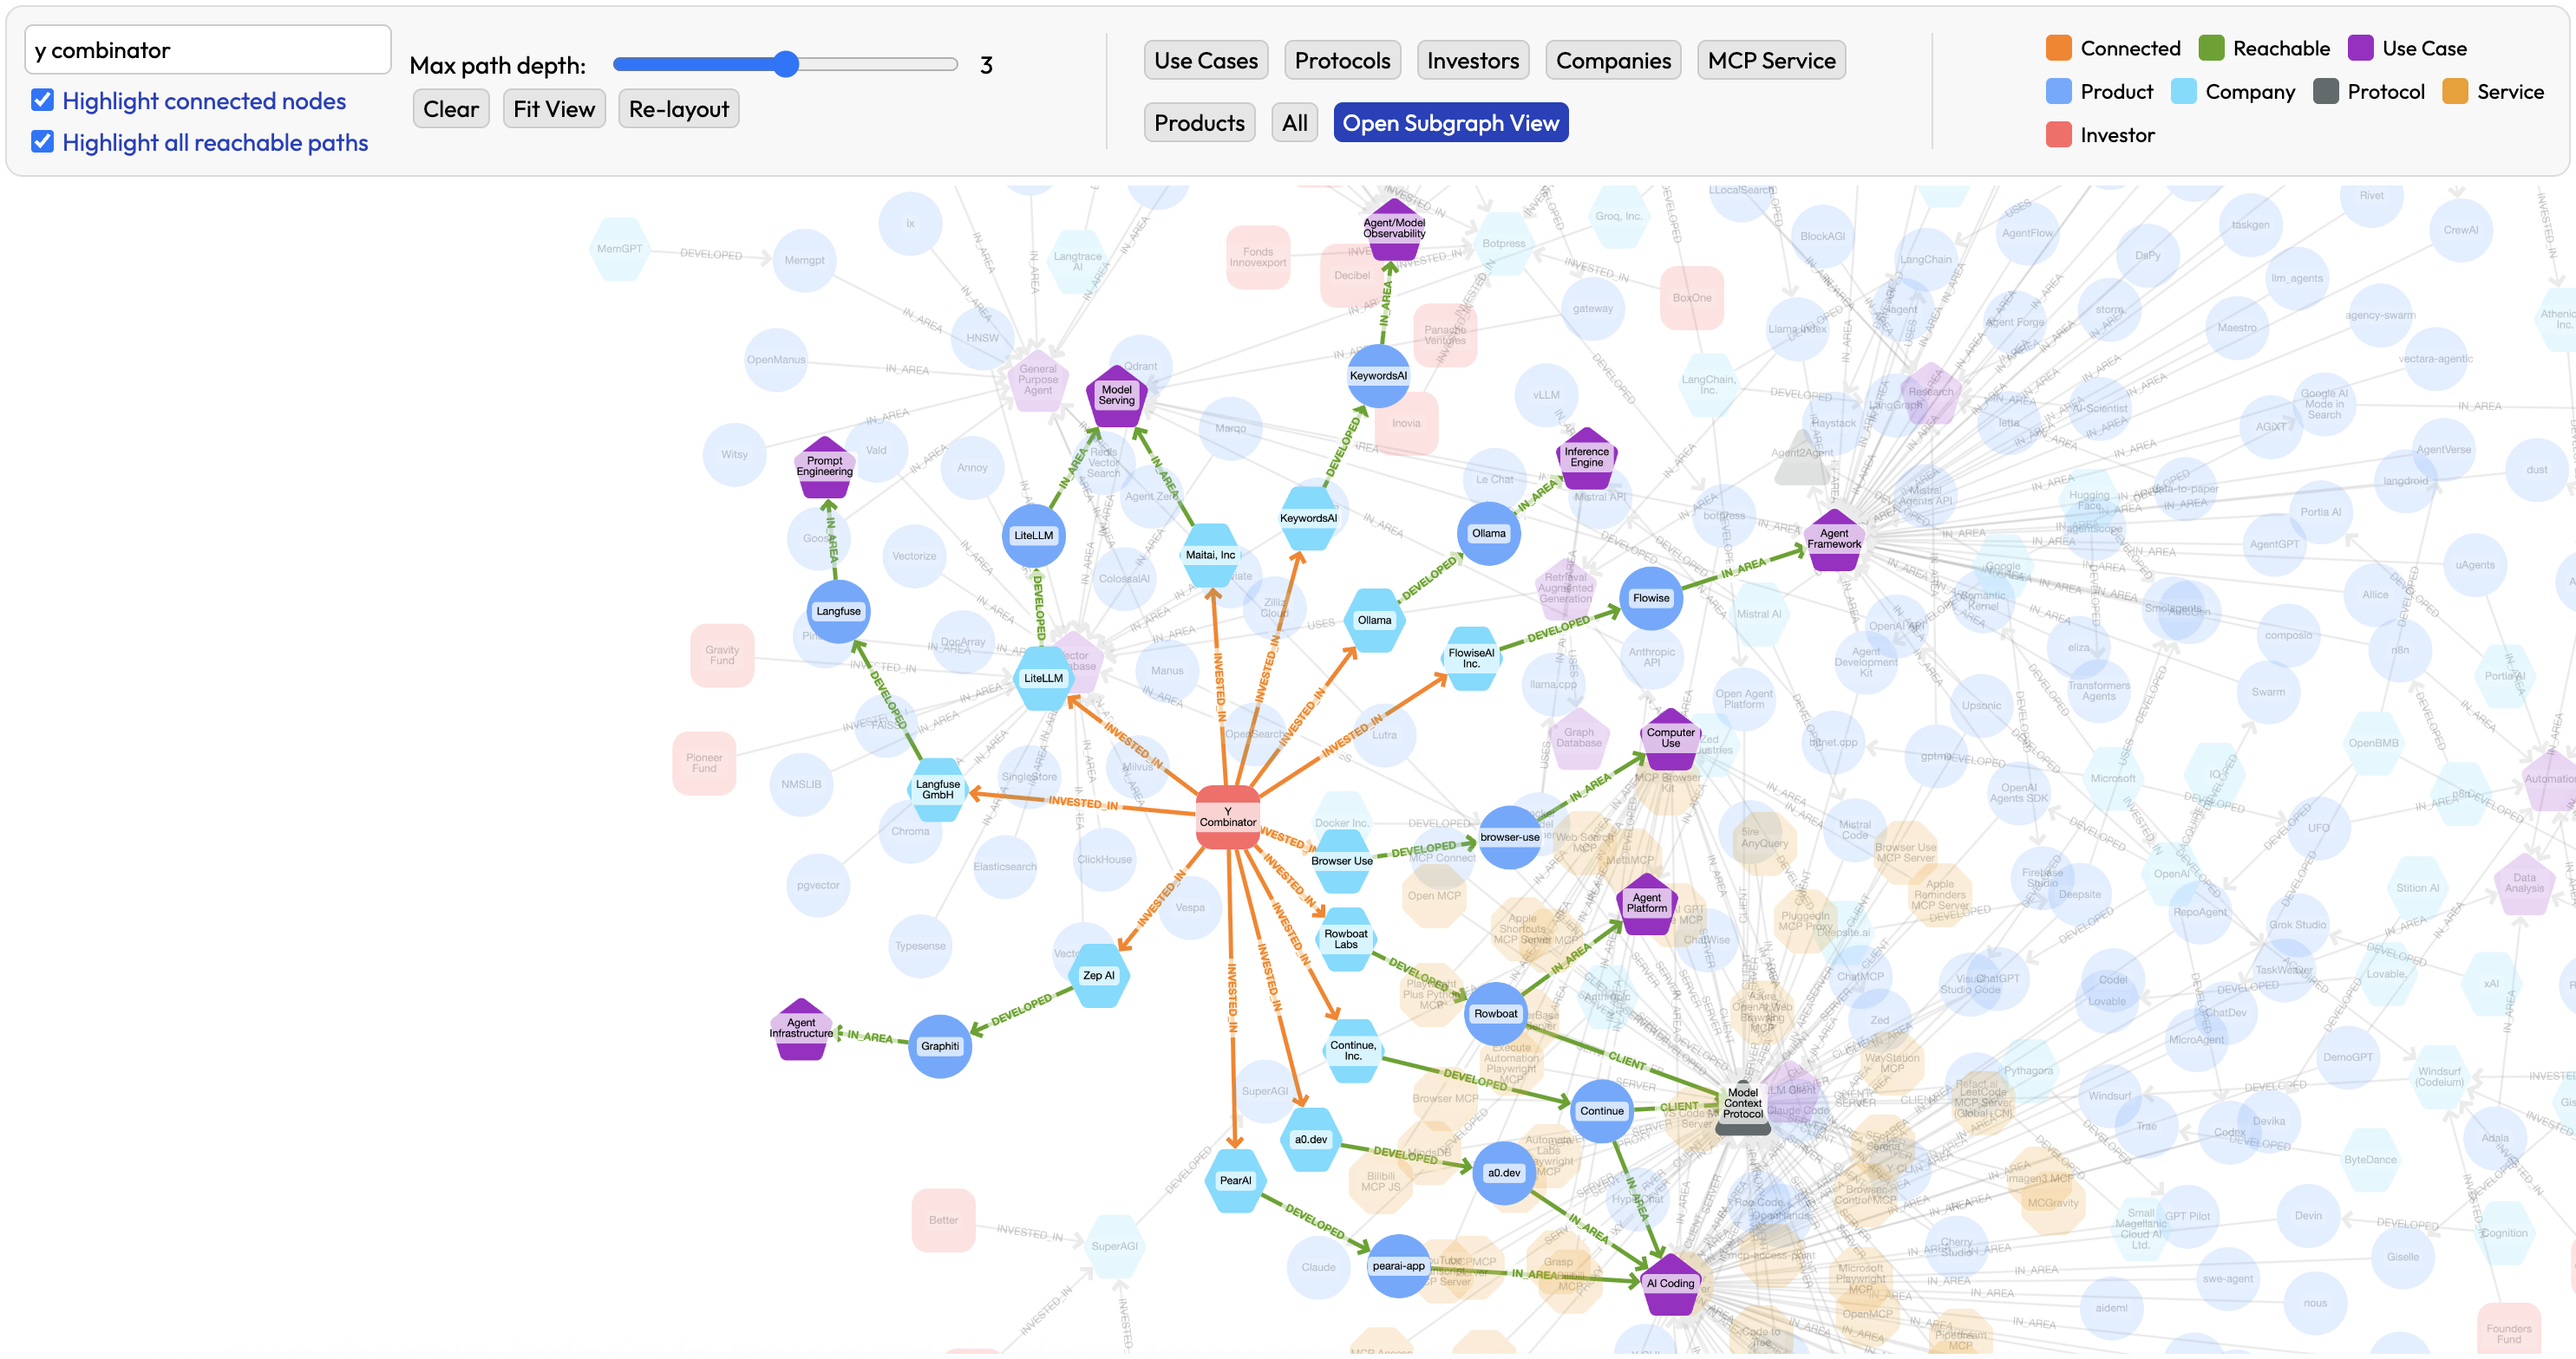
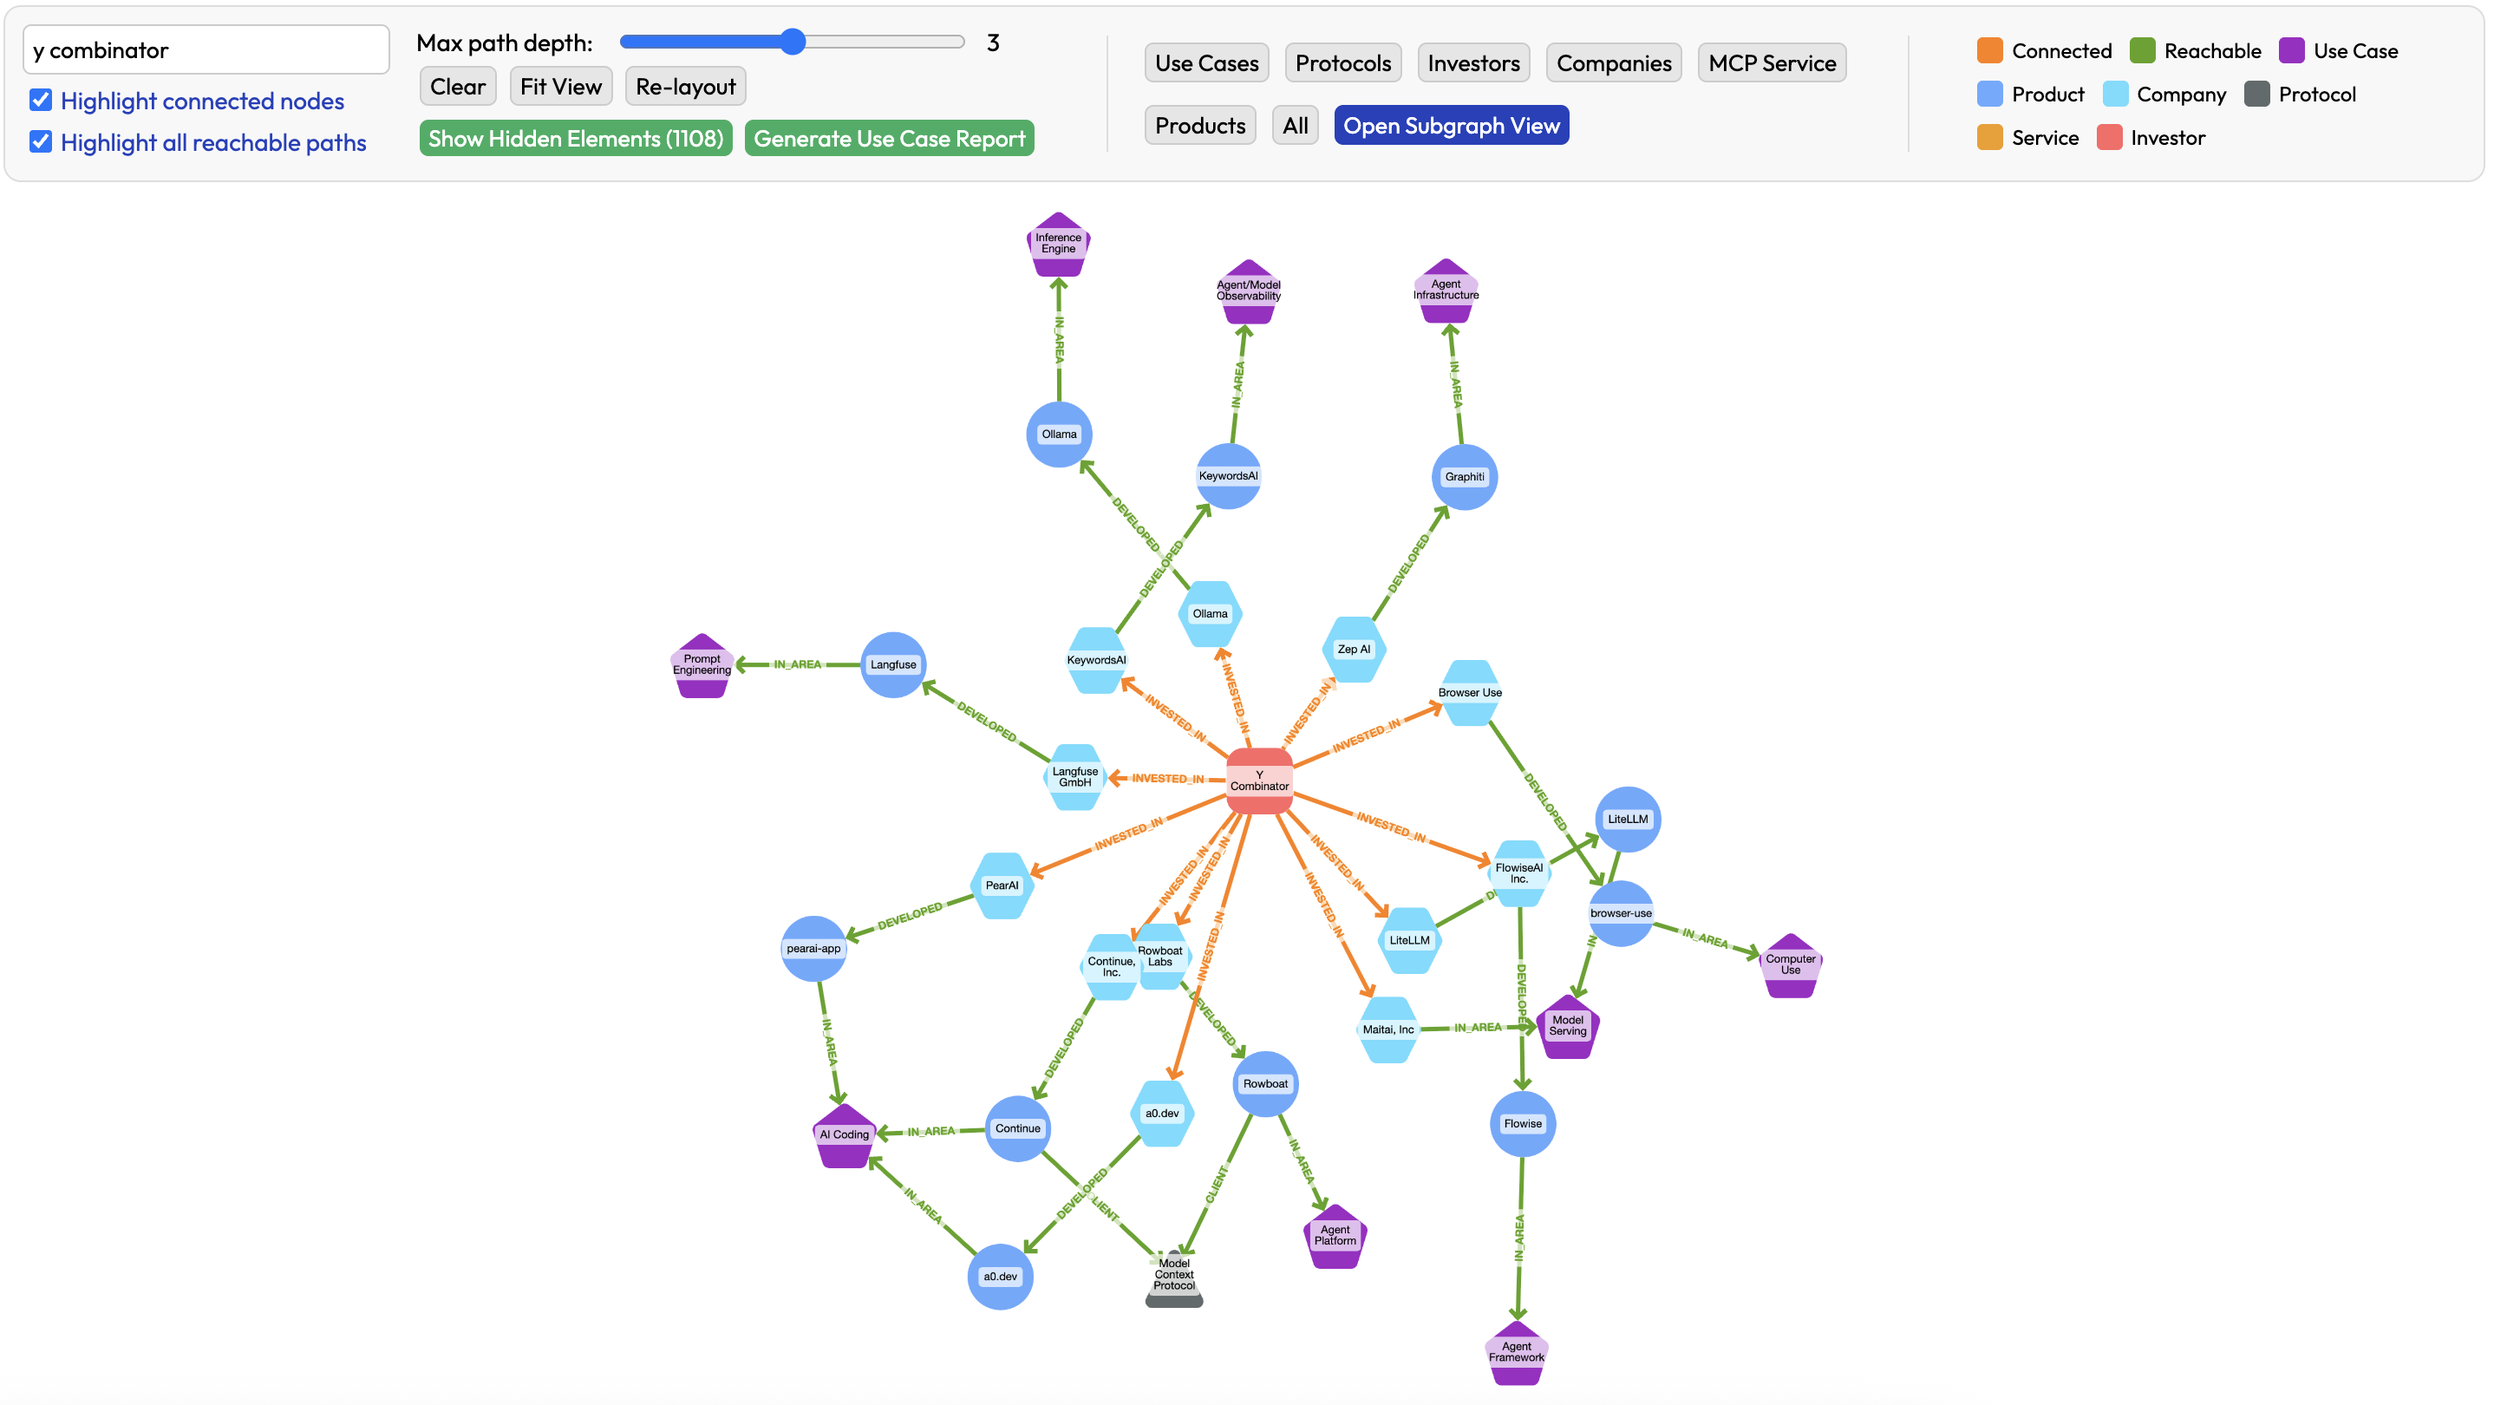
Updated screenshots and README

Changed region(s): [[0.0, 0.0, 1.0, 1.0], [0.9593, 0.6875, 1.0, 0.75], [0.9903, 0.2188, 1.0, 0.25]]

diff --git a/README.md b/README.md
@@ -108,6 +108,12 @@ Alternatively a click on the node or item on the list of subgraph nodes (from pr
 
 <img src="media/10--node-properties-and-details-of-product-or-company.png" alt="Properties of the selected element of the subgraph." width="100%">
 
+## Products catalog 
+
+With any filter applied generate a product catalog organized per application area. Each product will display information from the node properties. Products are organized in a grid view.
+
+<img src="media/11--product-and-services-directory.png" alt="Products and services catalog." width="100%">
+
 ## Contributions 
 
 We highly appreciate contributions in building the dataset by either direct updates or messages (or issues) related to needed fixes or updates. 
